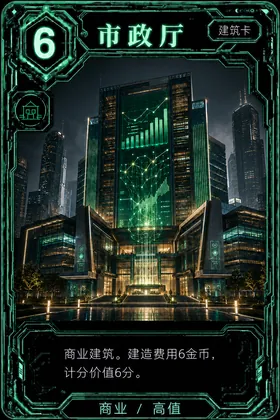
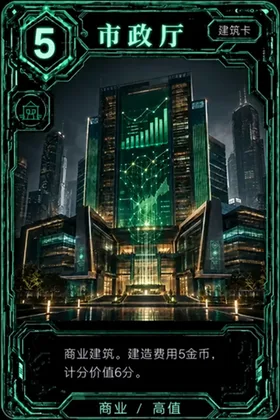
fix: correct town hall card cost and score

diff --git a/public/style.css b/public/style.css
@@ -304,6 +304,7 @@ body.card-hd-open{overflow:hidden}
   transform:translate(0,0);opacity:1;
   transition:transform .9s cubic-bezier(.4,.05,.35,1),opacity .9s ease;
   filter:drop-shadow(0 0 4px rgba(231,181,60,.6))}
+.fly-coin .coin-icon{width:22px;height:22px}
 
 /* 领主摧毁建筑：克隆卡播放抖动/红光/塌陷/淡出 */
 .card.destroying{pointer-events:none;z-index:402;animation:cardDestroy .72s ease forwards}
@@ -484,7 +485,8 @@ body.card-hd-open{overflow:hidden}
 /* 桌面端「抽 2 张建筑牌保留 1 张」：卡牌需要足够大，方便辨认卡面文字和插画。 */
 @media (min-width:821px){
   .pick-grid-draw_keep{gap:18px}
-  .pick-grid-draw_keep .card{width:112px;height:168px}
+  /* 与桌面端悬浮预览接近的阅读尺寸，方便直接比较两张建筑牌。 */
+  .pick-grid-draw_keep .card{width:300px;height:450px}
 }
 .section-title{font-size:13px;color:#7a5c22;margin:16px 0 8px;font-weight:700;
   border-bottom:1px solid var(--line);padding-bottom:5px}

diff --git a/src/cards.js b/src/cards.js
@@ -53,7 +53,8 @@
     { name: '商栈',   en: 'Trading Post', color: 'green', cost: 2, count: 3 },
     { name: '船坞',   en: 'Docks',        color: 'green', cost: 3, count: 3 },
     { name: '港口',   en: 'Harbor',       color: 'green', cost: 4, count: 3 },
-    { name: '市政厅', en: 'Town Hall',    color: 'green', cost: 5, count: 2 },
+    { name: '市政厅', en: 'Town Hall',    color: 'green', cost: 5, scoreValue: 6, count: 2,
+      desc: '商业建筑。建造费用5金币，计分价值6分。' },
 
     /* ---------- 红色 · 军事建筑 11 张（8号角色收入） ---------- */
     { name: '了望塔', en: 'Watchtower',  color: 'red', cost: 1, count: 3 },
@@ -247,6 +248,7 @@
           en: def.en,
           color: def.color,
           cost: def.cost,
+          scoreValue: def.scoreValue || def.cost,
           purple: def.purple ? Object.assign({}, def.purple) : null,
           desc: def.desc || ''
         });

diff --git a/public/themes/neon/theme.css b/public/themes/neon/theme.css
@@ -266,6 +266,12 @@ html[data-theme="neon"] .card.neon-card .c-name,
 html[data-theme="neon"] .card.neon-card .c-en { display:none; }
 html[data-theme="neon"] .card.neon-card.clickable { border-color:var(--ui-cyan); }
 html[data-theme="neon"] .card.neon-card.clickable:hover { box-shadow:0 0 0 2px rgba(67,228,255,.35),0 9px 24px rgba(0,0,0,.45); }
+/* 选择保留建筑牌时，覆盖普通霓虹卡牌尺寸，匹配悬浮预览的大图。 */
+@media (min-width:821px){
+  html[data-theme="neon"] .pick-grid-draw_keep .card.neon-card {
+    width:300px; height:450px;
+  }
+}
 html[data-theme="neon"] .card.neon-card.selected { outline:2px solid var(--ui-magenta); }
 html[data-theme="neon"] .card.neon-card.pickable { border-color:var(--ui-cyan)!important; box-shadow:0 0 0 2px rgba(67,228,255,.45),0 0 22px rgba(67,228,255,.25)!important; }
 html[data-theme="neon"] .card.neon-card.pickable::after { color:var(--ui-cyan); }

diff --git a/public/index.html b/public/index.html
@@ -4,7 +4,7 @@
 <meta charset="utf-8">
 <meta name="viewport" content="width=device-width,initial-scale=1">
 <title>富饶之城 · 荣耀之城 Citadels</title>
- <link rel="stylesheet" href="./style.css?v=5">
+ <link rel="stylesheet" href="./style.css?v=7">
 <link rel="stylesheet" href="./themes/neon/theme.css?v=7">
 </head>
 <body>
@@ -329,11 +329,11 @@
   </div>
 </div>
 
-<script src="./themes/neon/manifest.js?v=2"></script>
+<script src="./themes/neon/manifest.js?v=3"></script>
 <script src="./themes/theme-manager.js?v=2"></script>
-<script src="./src/cards.js?v=2"></script>
-<script src="./src/engine.js?v=5"></script>
+<script src="./src/cards.js?v=3"></script>
+<script src="./src/engine.js?v=6"></script>
 <script src="./src/ai.js?v=2"></script>
- <script src="./app.js?v=8"></script>
+ <script src="./app.js?v=9"></script>
 </body>
 </html>

diff --git a/public/app.js b/public/app.js
@@ -1160,7 +1160,7 @@
     for (let k = 0; k < n; k++) {
       const c = document.createElement('div');
       c.className = 'fly-coin';
-      c.textContent = '金';
+      c.innerHTML = '<i class="coin-icon" aria-hidden="true"></i>';
       document.body.appendChild(c);
       const sx = a.left + a.width / 2 + (Math.random() * 40 - 20);
       const sy = a.top + a.height / 2 + (Math.random() * 30 - 15);

diff --git a/src/engine.js b/src/engine.js
@@ -99,7 +99,7 @@
   function beautifiedExtra(card) { return card.beautified ? 1 : 0; }
   function districtScoreValue(card) {
     if (card.purple && card.purple.effect === 'scoreAs') return card.purple.scoreAs;
-    return card.cost;
+    return card.scoreValue || card.cost;
   }
 
   /* ============================ 创建游戏 ============================ */
